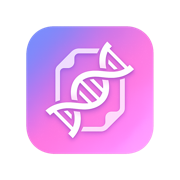
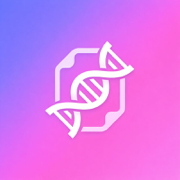
fix: iOS PWAアイコンの白枠問題を修正
- apple-touch-icon.pngを180x180pxにリサイズ
- manifest.jsonに180x180pxのアイコンを追加
- layout.tsxでapple-touch-iconのサイズを明示的に指定

diff --git a/app/layout.tsx b/app/layout.tsx
@@ -30,7 +30,13 @@ export const metadata: Metadata = {
   authors: [{ name: "アニメログ" }],
   icons: {
     icon: '/favicon.ico',
-    apple: '/apple-touch-icon.png',
+    apple: [
+      {
+        url: '/apple-touch-icon.png',
+        sizes: '180x180',
+        type: 'image/png',
+      },
+    ],
   },
   manifest: '/manifest.json',
   appleWebApp: {
